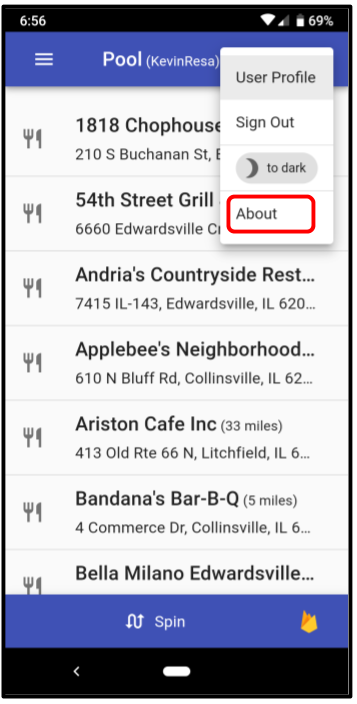
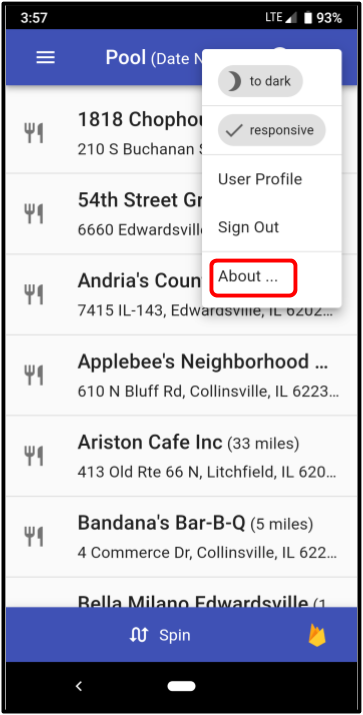
retrofit baseUI screen prints

diff --git a/src/features/common/baseUI/README.md b/src/features/common/baseUI/README.md
@@ -179,21 +179,21 @@ export default function MyResponsiveComp() {
 
 As an example, here is the eatery pool shown on a **cell phone**:
 
-?? screen print
+<p align="center"><img src="docs/ResponsivePhone.png" alt="ResponsivePhone" width="35%"></p>
 
 And here is the same screen manifest on a **desktop browser**:
 
-?? screen print
+<p align="center"><img src="docs/ResponsiveDesktop.png" alt="ResponsiveDesktop" width="90%"></p>
 
 The **user is in control of the responsive boundaries** where
 additional content can be manifest.  Here the User Menu that shows the
 **responsive** menu:
 
-?? screen print
+<p align="center"><img src="docs/ResponsiveControl.png" alt="ResponsiveControl" width="35%"></p>
 
 And here is the dialog that adjusts **responsive boundaries**:
 
-?? screen print
+<p align="center"><img src="docs/ResponsiveDialog.png" alt="ResponsiveDialog" width="35%"></p>
 
 </ul>
 

diff --git a/README.md b/README.md
@@ -89,11 +89,11 @@ render well on a variety of devices and window or screen sizes
 
 As an example, here is the eatery pool shown on a **cell phone**:
 
-?? screen print
+<p align="center"><img src="src/features/common/baseUI/docs/ResponsivePhone.png" alt="ResponsivePhone" width="35%"></p>
 
 And here is the same screen manifest on a **desktop browser**:
 
-?? screen print
+<p align="center"><img src="src/features/common/baseUI/docs/ResponsiveDesktop.png" alt="ResponsiveDesktop" width="90%"></p>
 
 For more information, see [baseUI Responsive Design].
 
